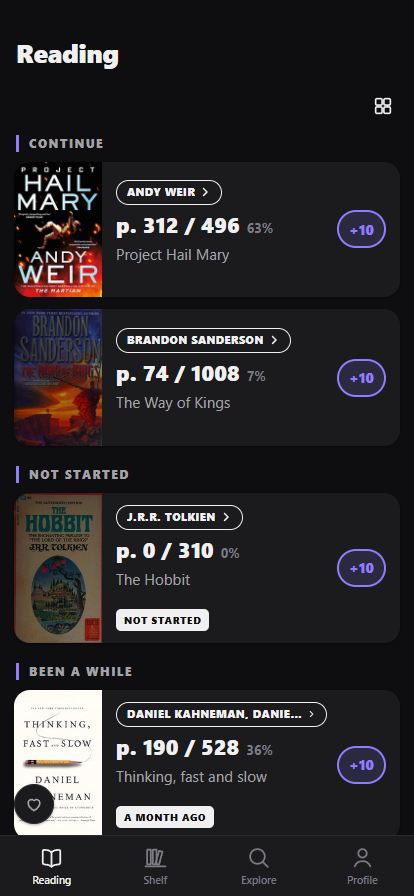
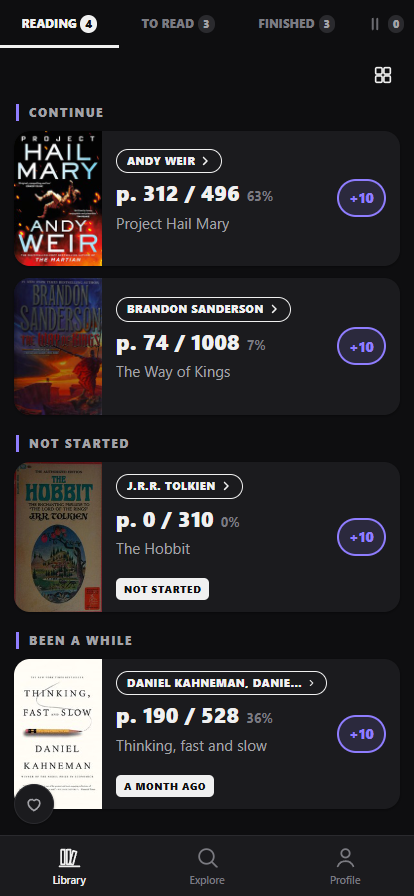
BooksTable: one Library screen, four tabs
Screenshots and copy for the merged Reading + shelf screen.

diff --git a/products/books-table/index.html b/products/books-table/index.html
@@ -81,19 +81,19 @@
       <h2 id="look" class="section-title">What it looks like</h2>
       <div class="shots-row">
         <figure>
-          <a class="shot shot-light" href="assets/reading-light.png" target="_blank" rel="noopener" title="Open full size"><img src="assets/reading-light.png" width="414" height="896" alt="The Reading tab with Continue, Not Started and Been a While sections. Each card shows the position, such as p. 312 / 496 at 63 per cent, and a +10 button." loading="lazy" decoding="async" /></a>
-          <a class="shot shot-dark" href="assets/reading-dark.png" target="_blank" rel="noopener" title="Open full size"><img src="assets/reading-dark.png" width="414" height="896" alt="The Reading tab with Continue, Not Started and Been a While sections. Each card shows the position, such as p. 312 / 496 at 63 per cent, and a +10 button. Shown in the app's dark theme." loading="lazy" decoding="async" /></a>
+          <a class="shot shot-light" href="assets/reading-light.png" target="_blank" rel="noopener" title="Open full size"><img src="assets/reading-light.png" width="414" height="896" alt="The Library screen on its Reading tab, with Continue, Not Started and Been a While sections. Each card shows the position, such as p. 312 / 496 at 63 per cent, and a +10 button. The tabs carry counts: Reading 4, To read 3, Finished 3." loading="lazy" decoding="async" /></a>
+          <a class="shot shot-dark" href="assets/reading-dark.png" target="_blank" rel="noopener" title="Open full size"><img src="assets/reading-dark.png" width="414" height="896" alt="The Library screen on its Reading tab, with Continue, Not Started and Been a While sections. Each card shows the position, such as p. 312 / 496 at 63 per cent, and a +10 button. The tabs carry counts: Reading 4, To read 3, Finished 3. Shown in the app's dark theme." loading="lazy" decoding="async" /></a>
           <figcaption>Reading — where you are in each book, and one tap to move</figcaption>
         </figure>
         <figure>
-          <a class="shot shot-light" href="assets/shelf-light.png" target="_blank" rel="noopener" title="Open full size"><img src="assets/shelf-light.png" width="414" height="896" alt="The Shelf tab with three tabs carrying counts — To read 3, Finished 3, Gave up 0 — listing Piranesi, Sapiens and Six of Crows, each with a START button." loading="lazy" decoding="async" /></a>
-          <a class="shot shot-dark" href="assets/shelf-dark.png" target="_blank" rel="noopener" title="Open full size"><img src="assets/shelf-dark.png" width="414" height="896" alt="The Shelf tab with three tabs carrying counts — To read 3, Finished 3, Gave up 0 — listing Piranesi, Sapiens and Six of Crows, each with a START button. Shown in the app's dark theme." loading="lazy" decoding="async" /></a>
-          <figcaption>Shelf — three piles, each tab saying how big it is</figcaption>
+          <a class="shot shot-light" href="assets/shelf-light.png" target="_blank" rel="noopener" title="Open full size"><img src="assets/shelf-light.png" width="414" height="896" alt="The To read tab listing Piranesi, Sapiens and Six of Crows, each with a START button, under four tabs carrying their counts." loading="lazy" decoding="async" /></a>
+          <a class="shot shot-dark" href="assets/shelf-dark.png" target="_blank" rel="noopener" title="Open full size"><img src="assets/shelf-dark.png" width="414" height="896" alt="The To read tab listing Piranesi, Sapiens and Six of Crows, each with a START button, under four tabs carrying their counts. Shown in the app's dark theme." loading="lazy" decoding="async" /></a>
+          <figcaption>One library, four tabs, each saying how big its pile is</figcaption>
         </figure>
         <figure>
-          <a class="shot shot-light" href="assets/choice-light.png" target="_blank" rel="noopener" title="Open full size"><img src="assets/choice-light.png" width="414" height="896" alt="A sheet asking “Where should this one go?” for Piranesi, offering “I'm reading it now — opens Reading, where a tap logs the pages” and “I've already read it — straight to the Finished shelf”." loading="lazy" decoding="async" /></a>
-          <a class="shot shot-dark" href="assets/choice-dark.png" target="_blank" rel="noopener" title="Open full size"><img src="assets/choice-dark.png" width="414" height="896" alt="A sheet asking “Where should this one go?” for Piranesi, offering “I'm reading it now — opens Reading, where a tap logs the pages” and “I've already read it — straight to the Finished shelf”. Shown in the app's dark theme." loading="lazy" decoding="async" /></a>
-          <figcaption>START asks what happened — then takes you where the book went</figcaption>
+          <a class="shot shot-light" href="assets/choice-light.png" target="_blank" rel="noopener" title="Open full size"><img src="assets/choice-light.png" width="414" height="896" alt="A sheet asking “Where should this one go?” for Piranesi, offering “I'm reading it now — moves to the Reading tab, where a tap logs the pages” and “I've already read it — straight to the Finished tab”." loading="lazy" decoding="async" /></a>
+          <a class="shot shot-dark" href="assets/choice-dark.png" target="_blank" rel="noopener" title="Open full size"><img src="assets/choice-dark.png" width="414" height="896" alt="A sheet asking “Where should this one go?” for Piranesi, offering “I'm reading it now — moves to the Reading tab, where a tap logs the pages” and “I've already read it — straight to the Finished tab”. Shown in the app's dark theme." loading="lazy" decoding="async" /></a>
+          <figcaption>START asks what happened — then switches to the tab it moved to</figcaption>
         </figure>
         <figure>
           <a class="shot shot-light" href="assets/explore-light.png" target="_blank" rel="noopener" title="Open full size"><img src="assets/explore-light.png" width="414" height="896" alt="A For you list where each suggestion carries a line explaining it, such as “More by Andy Weir” or “More in Science Fiction”." loading="lazy" decoding="async" /></a>
@@ -133,8 +133,8 @@
         </li>
         <li>
           <span class="feature-icon" aria-hidden="true">🗂</span>
-          <h3>A shelf that tells you where things are</h3>
-          <p>To read, Finished and Gave up, each tab carrying its count. START asks whether you've begun the book or already read it, then opens the tab it moved to — no hunting for where it went.</p>
+          <h3>One library that tells you where things are</h3>
+          <p>Reading, To read, Finished and a paused pile, each tab carrying its count. START asks whether you've begun the book or already read it, then switches to the tab it moved to — no hunting for where it went.</p>
         </li>
         <li>
           <span class="feature-icon" aria-hidden="true">✨</span>
